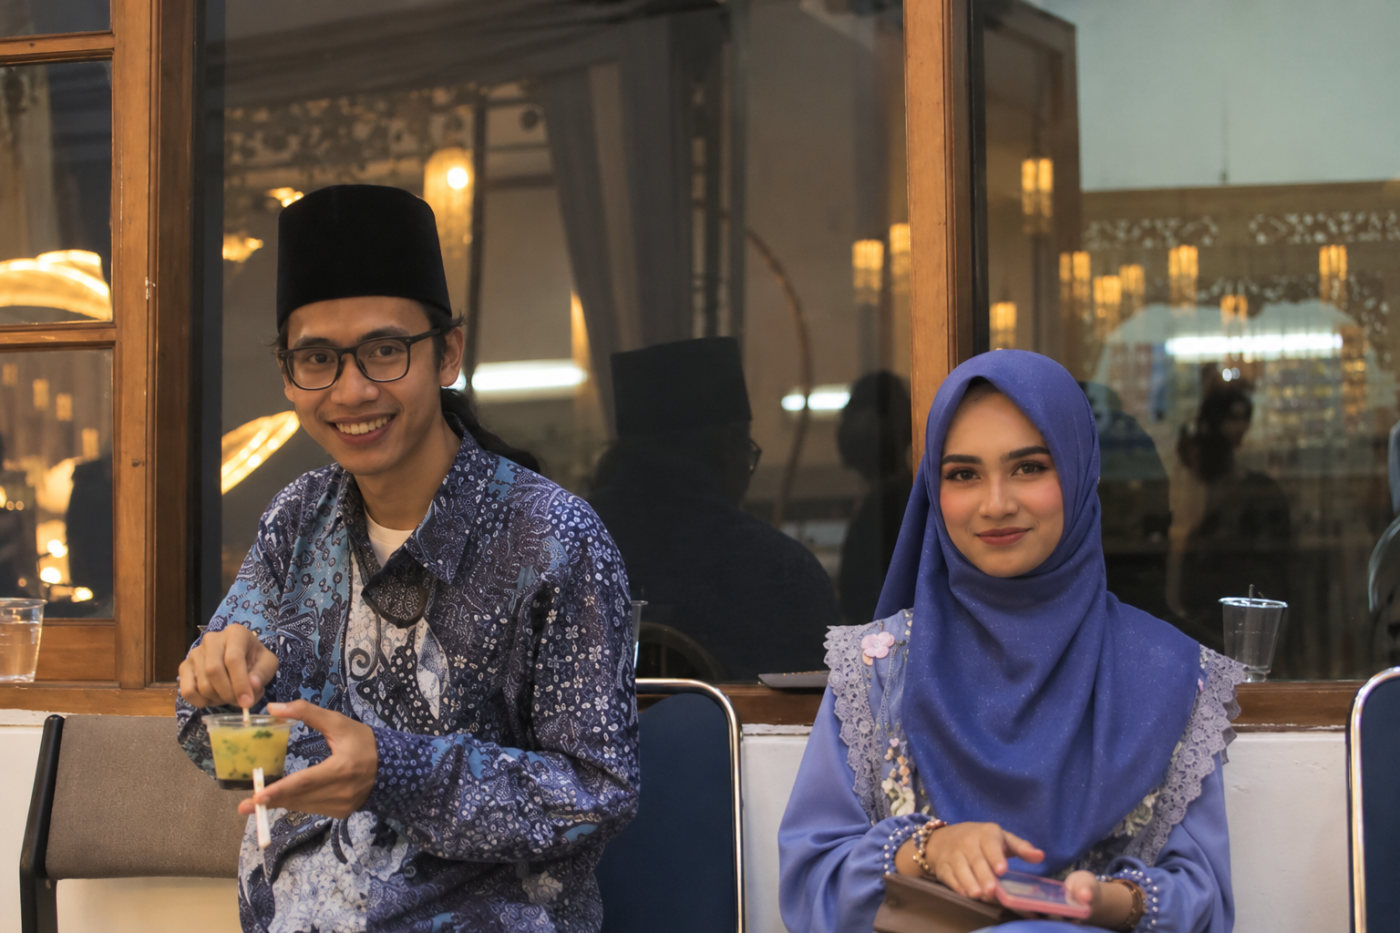
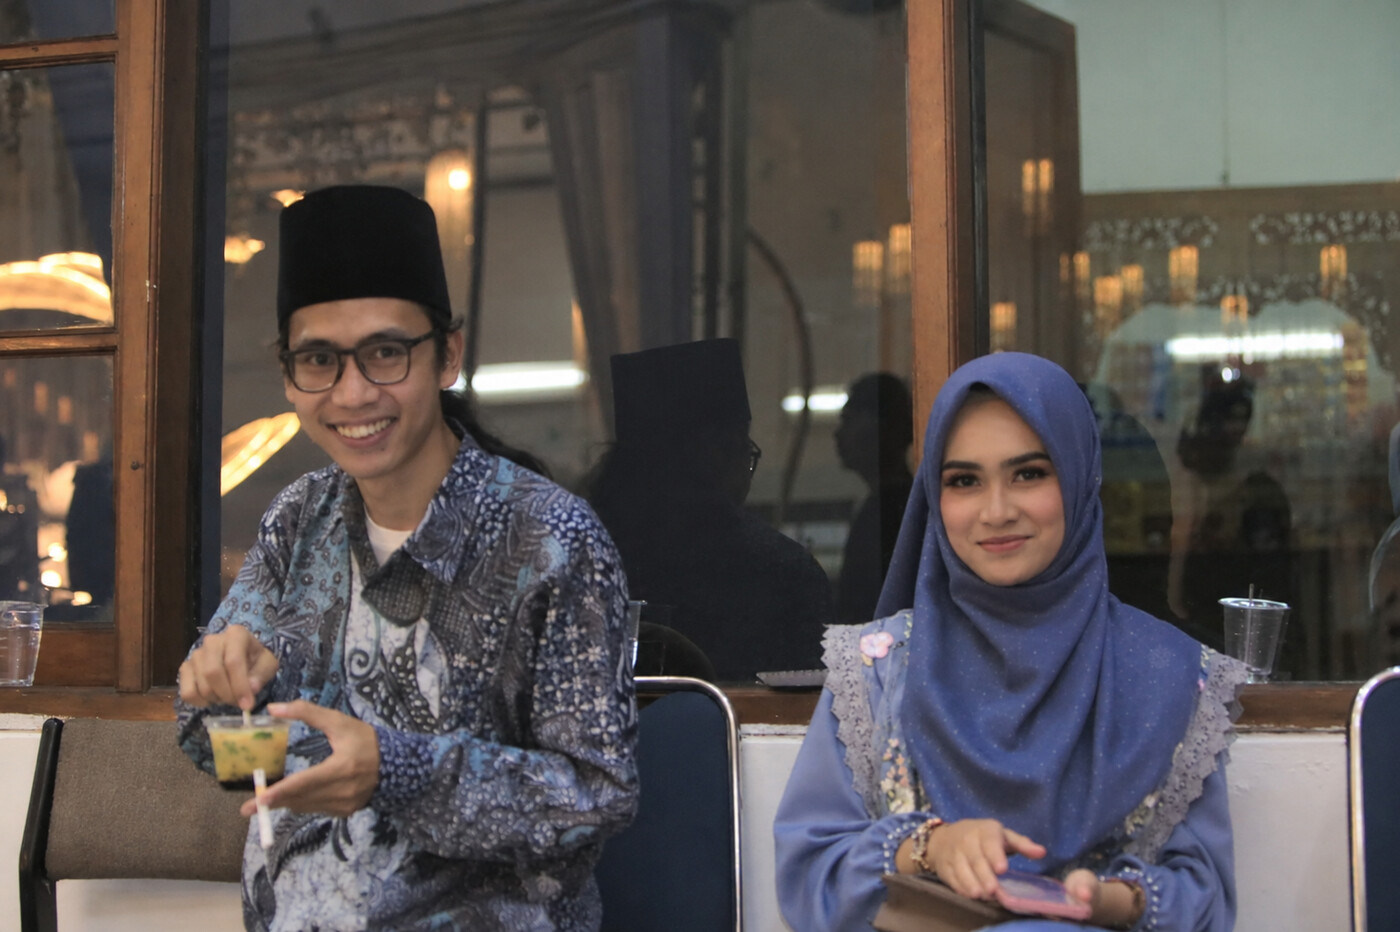
DEPLOY-weding-java: ganti foto kedua mempelai

diff --git a/public/ucapan/index.html b/public/ucapan/index.html
@@ -11,7 +11,7 @@
   <meta property="og:url" content="https://wedding.cgs.my.id/ucapan/" />
   <meta property="og:title" content="Ucapan &amp; Kehadiran · Ja’far &amp; Iklimah" />
   <meta property="og:description" content="Sampaikan doa dan konfirmasi kehadiran untuk pernikahan Ja’far &amp; Iklimah." />
-  <meta property="og:image" content="https://wedding.cgs.my.id/assets/img/pratinjau-mempelai.jpg" />
+  <meta property="og:image" content="https://wedding.cgs.my.id/assets/img/pratinjau-mempelai-baru.jpg" />
   <meta property="og:image:type" content="image/jpeg" />
   <meta property="og:image:width" content="1200" />
   <meta property="og:image:height" content="630" />
@@ -19,10 +19,10 @@
   <meta name="twitter:card" content="summary_large_image" />
   <meta name="twitter:title" content="Ucapan &amp; Kehadiran · Ja’far &amp; Iklimah" />
   <meta name="twitter:description" content="Sampaikan doa dan konfirmasi kehadiran untuk pernikahan Ja’far &amp; Iklimah." />
-  <meta name="twitter:image" content="https://wedding.cgs.my.id/assets/img/pratinjau-mempelai.jpg" />
+  <meta name="twitter:image" content="https://wedding.cgs.my.id/assets/img/pratinjau-mempelai-baru.jpg" />
   <meta name="twitter:image:alt" content="Foto Ja’far dan Iklimah, kedua mempelai" />
 
-  <link rel="icon" href="/assets/img/ikon/mempelai-192.png" type="image/png" sizes="192x192" />
+  <link rel="icon" href="/assets/img/ikon/mempelai-baru-192.png" type="image/png" sizes="192x192" />
   <link rel="stylesheet" href="/assets/css/style.css?v=mutiara-95" />
 </head>
 <body class="page-ucapan">
@@ -36,8 +36,8 @@
       <div class="wrap">
         <figure class="wishes-cover gold-glow">
           <div class="wishes-cover__portraits">
-            <img src="/assets/img/mempelai-pria.jpg" alt="Ja’far" width="92" height="106" />
-            <img src="/assets/img/mempelai-wanita.jpg" alt="Iklimah" width="92" height="106" />
+            <img src="/assets/img/mempelai-pria-baru.jpg" alt="Ja’far" width="92" height="106" />
+            <img src="/assets/img/mempelai-wanita-baru.jpg" alt="Iklimah" width="92" height="106" />
             <img class="wishes-cover__rings" src="/assets/img/cincin-emas.svg" alt="" width="32" height="24" />
           </div>
           <figcaption><span class="eyebrow">Doa untuk kedua mempelai</span><strong data-bind="pasanganScript">Ja’far &amp; Iklimah</strong></figcaption>
@@ -110,8 +110,8 @@
             <p class="wish-carousel__hint" id="petunjukUcapan">Balik kartu untuk melihat ilustrasi Ja’far &amp; Iklimah. Balasan dibuat otomatis berdasarkan isi pesan dan konfirmasi kehadiran. Mohon maaf jika ada kata yang kurang berkenan.</p>
             <figure class="wish-carousel__couple" aria-label="Ja’far dan Iklimah, kedua mempelai">
               <div class="wish-carousel__portraits">
-                <img src="/assets/img/mempelai-pria.jpg" alt="Ja’far" width="56" height="56" loading="lazy" />
-                <img src="/assets/img/mempelai-wanita.jpg" alt="Iklimah" width="56" height="56" loading="lazy" />
+                <img src="/assets/img/mempelai-pria-baru.jpg" alt="Ja’far" width="56" height="56" loading="lazy" />
+                <img src="/assets/img/mempelai-wanita-baru.jpg" alt="Iklimah" width="56" height="56" loading="lazy" />
               </div>
               <figcaption>Ja’far &amp; Iklimah</figcaption>
             </figure>
@@ -186,8 +186,8 @@
         <div class="wish-carousel" id="carouselHadiah">
           <figure class="wish-carousel__couple" aria-label="Ja’far dan Iklimah, kedua mempelai">
             <div class="wish-carousel__portraits">
-              <img src="/assets/img/mempelai-pria.jpg" alt="Ja’far" width="56" height="56" loading="lazy" />
-              <img src="/assets/img/mempelai-wanita.jpg" alt="Iklimah" width="56" height="56" loading="lazy" />
+              <img src="/assets/img/mempelai-pria-baru.jpg" alt="Ja’far" width="56" height="56" loading="lazy" />
+              <img src="/assets/img/mempelai-wanita-baru.jpg" alt="Iklimah" width="56" height="56" loading="lazy" />
             </div>
             <figcaption>Ja’far &amp; Iklimah</figcaption>
           </figure>
@@ -225,9 +225,9 @@
   </button>
   <div class="toast" id="toast" role="status"></div>
   <noscript><p class="noscript">Aktifkan JavaScript untuk mengisi formulir ucapan dan kehadiran.</p></noscript>
-  <script type="module" src="/assets/js/app.js?v=ikon-96"></script>
+  <script type="module" src="/assets/js/app.js?v=foto-97"></script>
   <script type="module" src="/assets/js/footer.js?v=76"></script>
   <script type="module" src="/assets/js/sheets.js?v=kado-52"></script>
-  <script type="module" src="/assets/js/bagikan.js?v=83"></script>
+  <script type="module" src="/assets/js/bagikan.js?v=foto-97"></script>
 </body>
 </html>

diff --git a/public/index.html b/public/index.html
@@ -13,7 +13,7 @@
   <meta property="og:url" content="https://wedding.cgs.my.id/" />
   <meta property="og:title" content="Pernikahan Ja’far &amp; Iklimah" />
   <meta property="og:description" content="Mohon doa restu untuk pernikahan kami, Ja’far &amp; Iklimah. Minggu, 3 Januari 2027 · Singaparna, Tasikmalaya." />
-  <meta property="og:image" content="https://wedding.cgs.my.id/assets/img/pratinjau-mempelai.jpg" />
+  <meta property="og:image" content="https://wedding.cgs.my.id/assets/img/pratinjau-mempelai-baru.jpg" />
   <meta property="og:image:type" content="image/jpeg" />
   <meta property="og:image:width" content="1200" />
   <meta property="og:image:height" content="630" />
@@ -21,11 +21,11 @@
   <meta name="twitter:card" content="summary_large_image" />
   <meta name="twitter:title" content="Pernikahan Ja’far &amp; Iklimah" />
   <meta name="twitter:description" content="Mohon doa restu untuk pernikahan kami, Ja’far &amp; Iklimah. Minggu, 3 Januari 2027 · Singaparna, Tasikmalaya." />
-  <meta name="twitter:image" content="https://wedding.cgs.my.id/assets/img/pratinjau-mempelai.jpg" />
+  <meta name="twitter:image" content="https://wedding.cgs.my.id/assets/img/pratinjau-mempelai-baru.jpg" />
   <meta name="twitter:image:alt" content="Foto Ja’far dan Iklimah, kedua mempelai" />
 
-  <link rel="icon" href="/assets/img/ikon/mempelai-192.png" type="image/png" sizes="192x192" />
-  <link rel="apple-touch-icon" href="/assets/img/ikon/mempelai-192.png" />
+  <link rel="icon" href="/assets/img/ikon/mempelai-baru-192.png" type="image/png" sizes="192x192" />
+  <link rel="apple-touch-icon" href="/assets/img/ikon/mempelai-baru-192.png" />
   <link rel="preload" as="font" type="font/woff2" href="assets/fonts/great-vibes-latin-400-normal.woff2" crossorigin />
   <link rel="preload" as="font" type="font/woff2" href="assets/fonts/cormorant-garamond-latin-400-normal.woff2" crossorigin />
   <link rel="stylesheet" href="assets/css/style.css?v=sosial-83" />
@@ -416,9 +416,9 @@
     </div>
   </noscript>
 
-  <script type="module" src="assets/js/app.js?v=ikon-96"></script>
+  <script type="module" src="assets/js/app.js?v=foto-97"></script>
   <script type="module" src="/assets/js/footer.js?v=76"></script>
   <script type="module" src="/assets/js/sheets.js"></script>
-  <script type="module" src="/assets/js/bagikan.js?v=83"></script>
+  <script type="module" src="/assets/js/bagikan.js?v=foto-97"></script>
 </body>
 </html>

diff --git a/public/assets/js/config.js b/public/assets/js/config.js
@@ -15,7 +15,7 @@ export const CONFIG = {
     // Ganti dengan alamat situs Anda setelah deploy (dipakai untuk preview WhatsApp).
     url: "https://wedding.cgs.my.id",
     // Gambar preview saat tautan dibagikan.
-    gambar: "assets/img/foto-bersama.jpg",
+    gambar: "assets/img/foto-bersama-baru.jpg",
   },
 
   /* -------------------------- Komentar pembuka --------------------------- */
@@ -43,7 +43,7 @@ export const CONFIG = {
       ibu: "Ibu Hj. Siti Wafiroh Alfiah",
       // Opsional: tautan Instagram tanpa @ (kosongkan jika tidak dipakai).
       instagram: "",
-      foto: "assets/img/mempelai-pria.jpg",
+      foto: "assets/img/mempelai-pria-baru.jpg",
     },
     wanita: {
       nama: "Risva Iklimah Adawiyah",
@@ -53,7 +53,7 @@ export const CONFIG = {
       bapakAlmarhum: false,
       ibu: "Ibu Sopiah",
       instagram: "",
-      foto: "assets/img/mempelai-wanita.jpg",
+      foto: "assets/img/mempelai-wanita-baru.jpg",
     },
     // Nama besar yang tampil di sampul: "Ja'far & Iklimah"
     hashtag: "#JaFarIklimah",
@@ -65,7 +65,7 @@ export const CONFIG = {
   // Foto utuh (tidak dipecah). Tampil dengan animasi dua panel yang menyatu.
   fotoBersama: {
     aktif: true,
-    src: "assets/img/foto-bersama.jpg",
+    src: "assets/img/foto-bersama-baru.jpg",
     judul: "Kebersamaan",
     ket: "Dua hati, satu tujuan — menuju ridha-Nya",
     catatan: "Sentuh foto untuk melihat versi utuh",
@@ -123,17 +123,17 @@ export const CONFIG = {
   /* -------------------------------- Galeri ------------------------------- */
   galeri: [
     {
-      src: "assets/img/foto-bersama.jpg",
+      src: "assets/img/foto-bersama-baru.jpg",
       judul: "Ja'far & Iklimah",
       ket: "Kebersamaan kami",
     },
     {
-      src: "assets/img/mempelai-pria.jpg",
+      src: "assets/img/mempelai-pria-baru.jpg",
       judul: "Ja'far",
       ket: "Calon mempelai pria",
     },
     {
-      src: "assets/img/mempelai-wanita.jpg",
+      src: "assets/img/mempelai-wanita-baru.jpg",
       judul: "Iklimah",
       ket: "Calon mempelai wanita",
     },

diff --git a/public/assets/js/bagikan.js b/public/assets/js/bagikan.js
@@ -14,8 +14,8 @@ if (pemicu.length) {
       </header>
       <div class="share-sheet__card gold-glow">
         <div class="share-sheet__photo">
-          <img class="share-sheet__half share-sheet__half--left" src="/assets/img/foto-bersama.jpg" alt="Ja’far dan Iklimah" width="1400" height="933">
-          <img class="share-sheet__half share-sheet__half--right" src="/assets/img/foto-bersama.jpg" alt="" width="1400" height="933">
+          <img class="share-sheet__half share-sheet__half--left" src="/assets/img/foto-bersama-baru.jpg" alt="Ja’far dan Iklimah" width="1400" height="933">
+          <img class="share-sheet__half share-sheet__half--right" src="/assets/img/foto-bersama-baru.jpg" alt="" width="1400" height="933">
         </div>
         <h3>Ja’far &amp; Iklimah</h3>
         <p class="share-sheet__message"></p>

diff --git a/public/assets/js/app.js b/public/assets/js/app.js
@@ -6,9 +6,9 @@
 
 import { pilihBalasan, pilihBalasanHadiah } from "./balasan.js?v=konteks-89";
 import { AYAT_PERNIKAHAN } from "./ayat-pernikahan.js";
-import CONFIG from "./config.js?v=alamat-94";
+import CONFIG from "./config.js?v=foto-97";
 import { injectOrnaments, icons } from "./ornament.js";
-import { Music } from "./music.js?v=ikon-96";
+import { Music } from "./music.js?v=foto-97";
 import * as api from "./api.js?v=audit-29";
 
 /* Tandai bahwa JS aktif: elemen beranimasi baru disembunyikan lewat kelas ini. */

diff --git a/public/assets/js/music.js b/public/assets/js/music.js
@@ -108,7 +108,7 @@ export class Music {
       navigator.mediaSession.metadata = new MediaMetadata({
         title: "Ney Dinletisi",
         artist: "Ja’far & Iklimah",
-        artwork: [{ src: "/assets/img/ikon/mempelai-192.png", sizes: "192x192", type: "image/png" }],
+        artwork: [{ src: "/assets/img/ikon/mempelai-baru-192.png", sizes: "192x192", type: "image/png" }],
       });
     } catch { /* Metadata opsional; musik tetap diputar. */ }
   }
